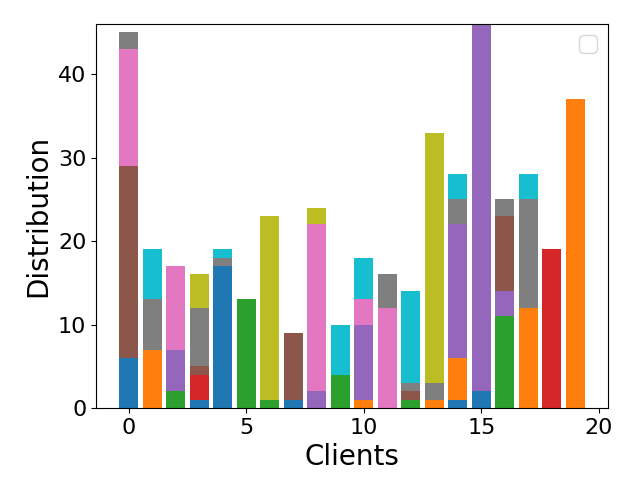
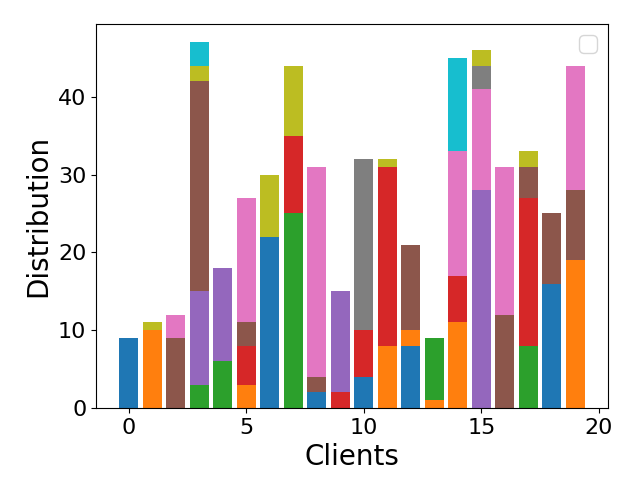
basic sampling done

diff --git a/utils/fed.py b/utils/fed.py
@@ -41,7 +41,7 @@ class Config:
 
     def __init__(self, task_name="CIFAR",
         server_num=10, client_num=500, data_num_range=(10, 50), alpha=0.1,
-        sampling_num=100,
+        sampling_frac=0.2,
         global_epoch_num=500, group_epoch_num=1, local_epoch_num=5,
         lr=0.1, lr_interval=100, local_batch_size=10,
         log_interval=5, 
@@ -61,7 +61,7 @@ class Config:
         self.client_num = client_num
         self.data_num_range = data_num_range
         self.alpha = alpha
-        self.sampling_num = sampling_num
+        self.sampling_frac = sampling_frac
         self.data_path = data_path
         self.global_epoch_num = global_epoch_num
         self.group_epoch_num = group_epoch_num
@@ -290,6 +290,8 @@ class GFL:
             if self.config.grouping_mode == Config.GroupingMode.CV_GREEDY:
                 CV_greedy(server_clients, i, self.config.max_cv, self.config.min_group_size)
 
+        self.groups_sizes = np.array(self.groups_sizes)
+        self.groups_cvs = np.array(self.groups_cvs)
         
 
 
@@ -312,14 +314,14 @@ class GFL:
         select groups for the current iteration
         list of group numbers (in self.groups)
         """
-        probs = np.zeros((len(self.groups),), dtype=np.float)
-        for i, group in enumerate(self.groups):
-            probs[i] = 1.0 / self.calc_cv(group)
+        probs = 1.0 / self.groups_cvs
         sum_rcv = np.sum(probs)
         probs = probs / sum_rcv
 
         indices = range(len(self.groups))
-        self.selected_groups= np.random.choice(indices, self.config.sampling_num, p=probs)
+        sampling_num = int(self.config.sampling_frac * len(self.groups))
+        self.selected_groups = np.random.choice(indices, sampling_num, p=probs, replace=False)
+        
         return self.selected_groups
 
     def train(self, selected_groups: 'list[int]'):

diff --git a/main.py b/main.py
@@ -16,7 +16,7 @@ if __name__ == "__main__":
     formal = Config(
         task_name='CIFAR',
         server_num=10, client_num=1000, data_num_range=(10, 50), alpha=0.1,
-        sampling_num=100,
+        sampling_frac=0.2,
         global_epoch_num=500, group_epoch_num=1, local_epoch_num=5,
         lr=0.1, lr_interval=100, local_batch_size=10,
         log_interval=5, 
@@ -34,7 +34,7 @@ if __name__ == "__main__":
     debug = Config(
         task_name='CIFAR',
         server_num=5, client_num=100, data_num_range=(10, 50), alpha=0.1,
-        sampling_num=50,
+        sampling_frac=0.2,
         global_epoch_num=100, group_epoch_num=1, local_epoch_num=5,
         lr=0.1, lr_interval=100, local_batch_size=10,
         log_interval=5, 
